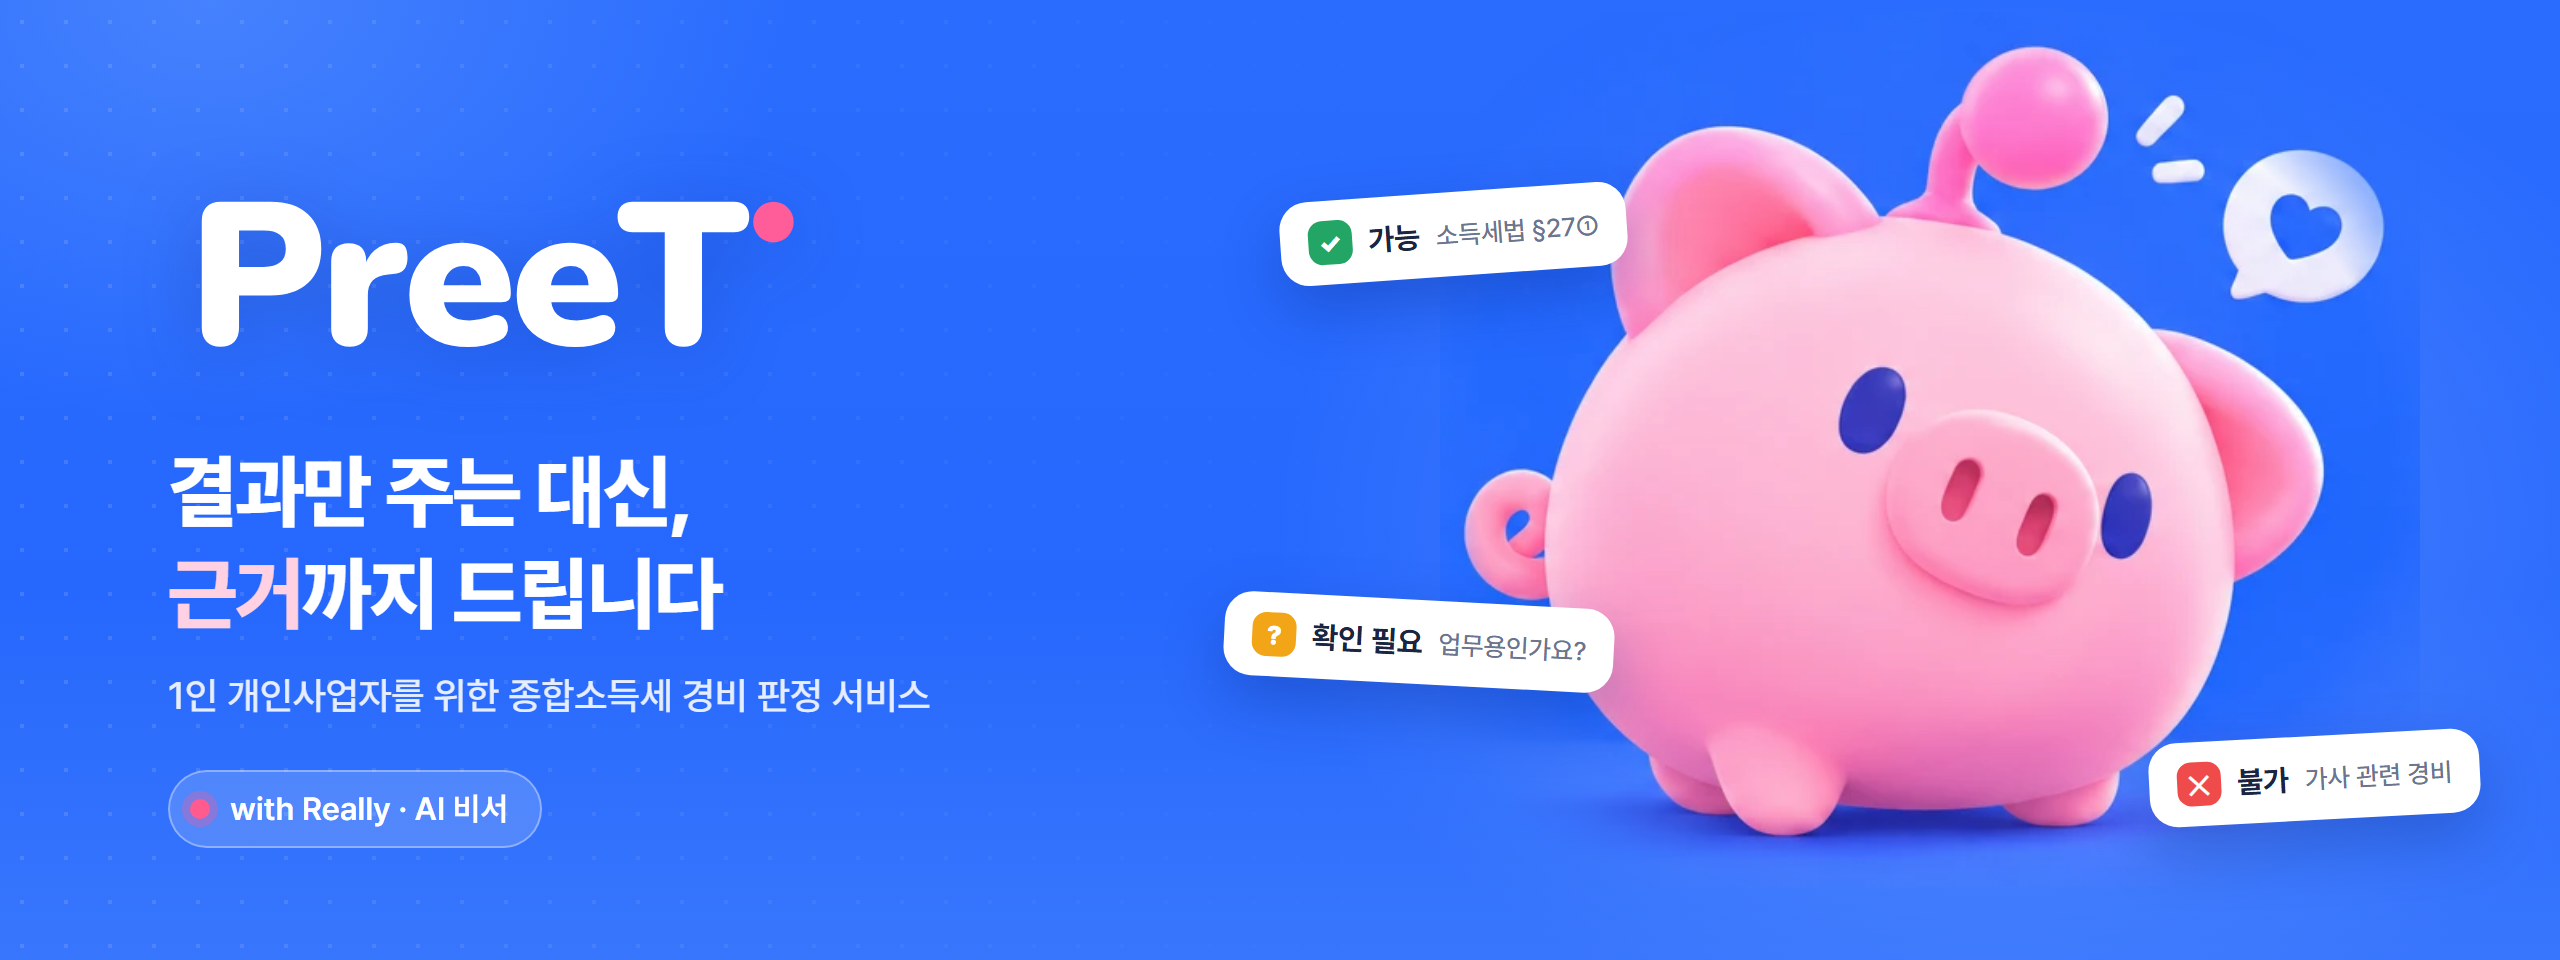
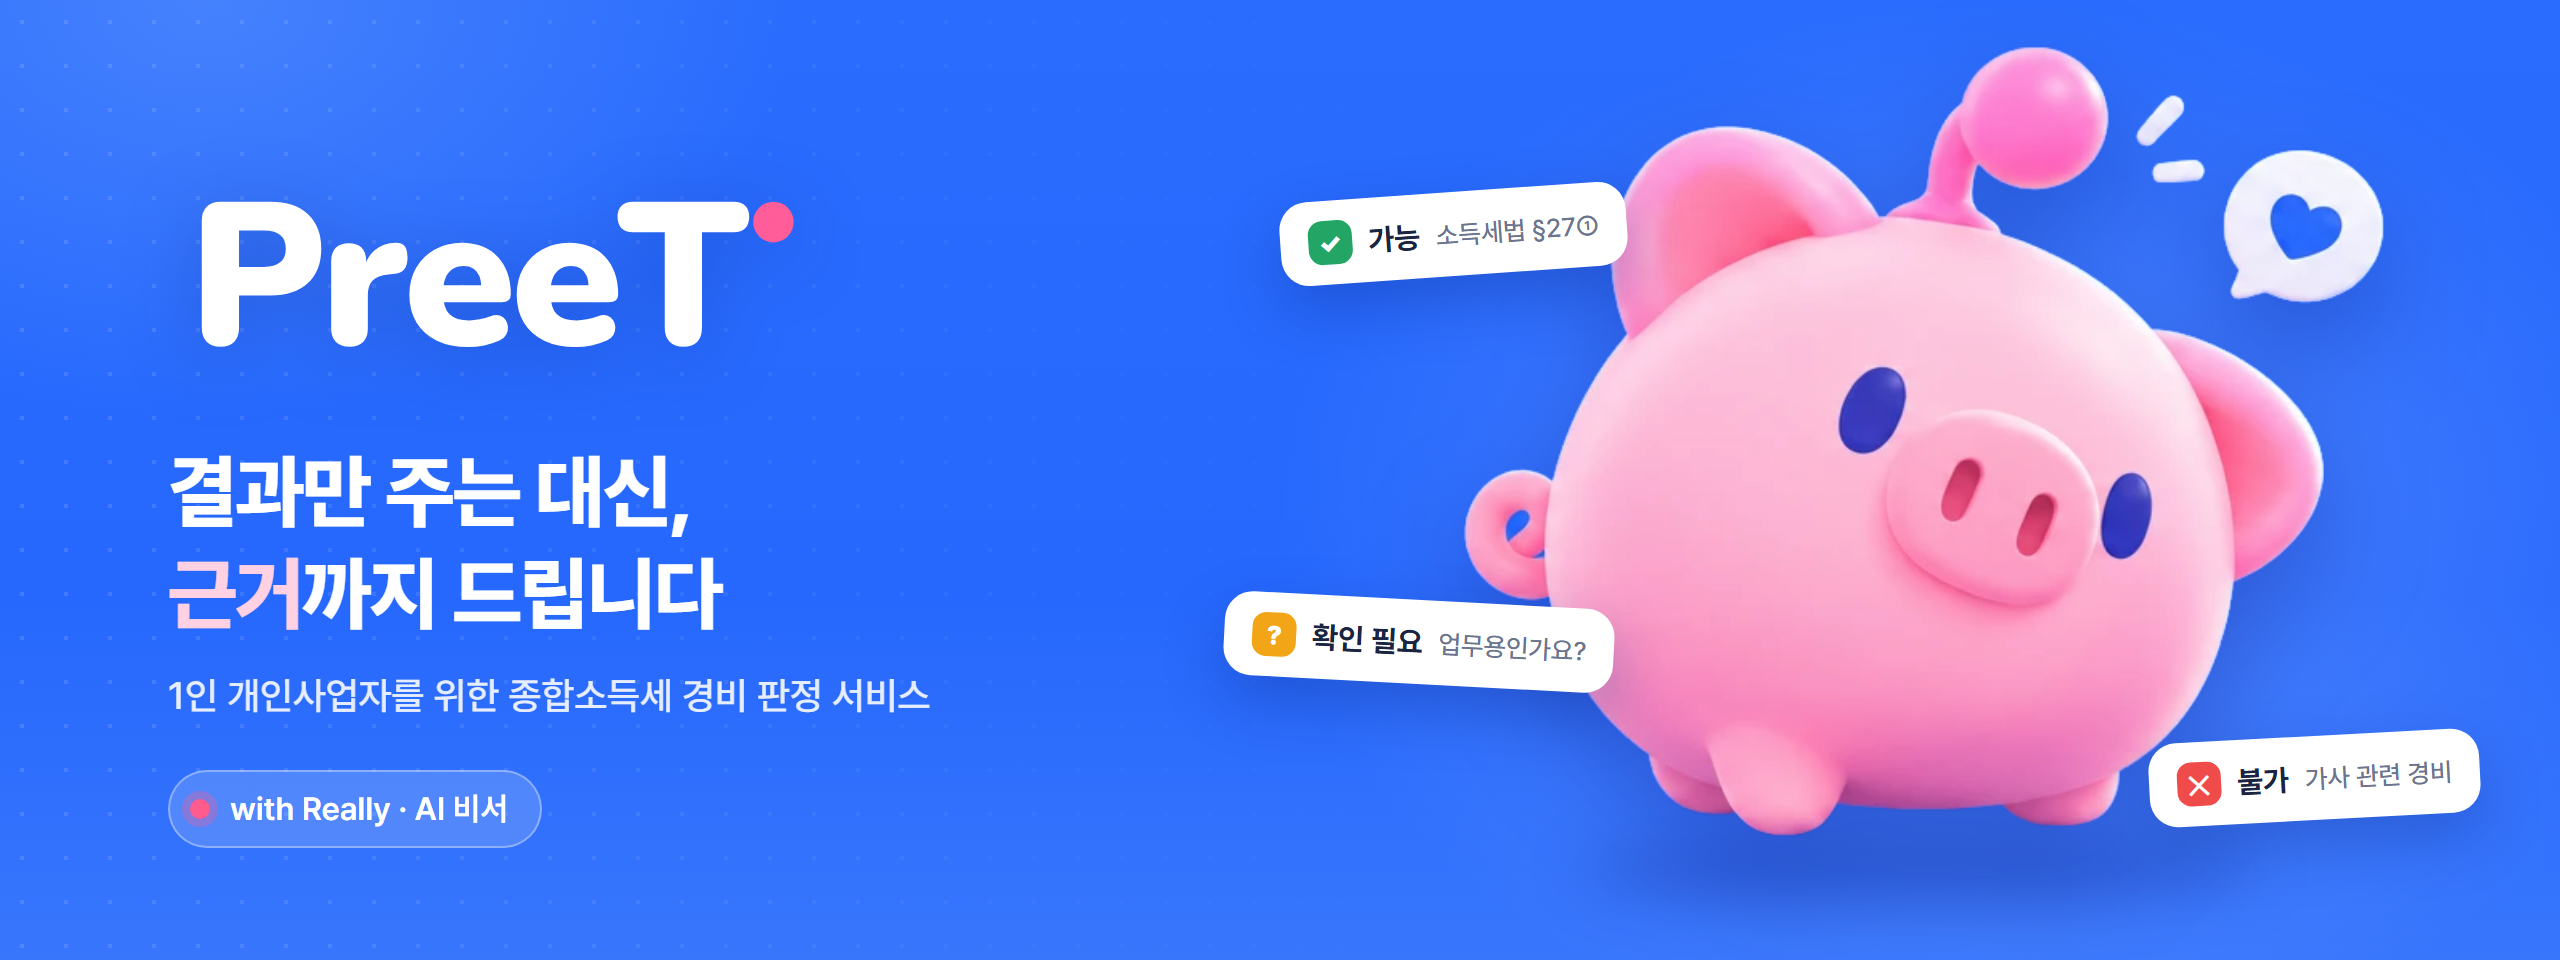
design: README 배너의 캐릭터 경계선 제거

diff --git a/worklog/etc/2026-11-06-readme.md b/worklog/etc/2026-11-06-readme.md
@@ -30,3 +30,8 @@
 - GitHub README 는 JavaScript 를 막아 archify 뷰어의 마우스 반응 효과를 쓸 수 없다. 대신 연결선을 따라 빛 점이 흐르는 GIF 로 바꿨다.
 - 연결선 좌표는 archify HTML 의 `path[data-edge-id]` 에서 뽑고, 2배율 정적 그림 위에 점을 그려 30프레임으로 만들었다. 라이트·다크 두 장이다.
 - 그림을 고칠 때는 `architecture.json` 으로 HTML 을 다시 만들고 같은 방법으로 GIF 를 다시 만든다.
+
+## 배너의 돼지 경계선 없앰
+
+- 돼지를 사각형으로 잘라 가장자리만 흐리게 했더니, 말풍선 쪽에 원본 배경 파랑이 남고 배너 배경과 색이 달라 선이 보였다.
+- 원본 배경 파랑을 투명하게 빼고(바깥과 이어진 영역만, 눈·하트 같은 안쪽은 남김) 돼지만 얹었다. 바닥 그림자는 CSS 로 따로 그렸다.
